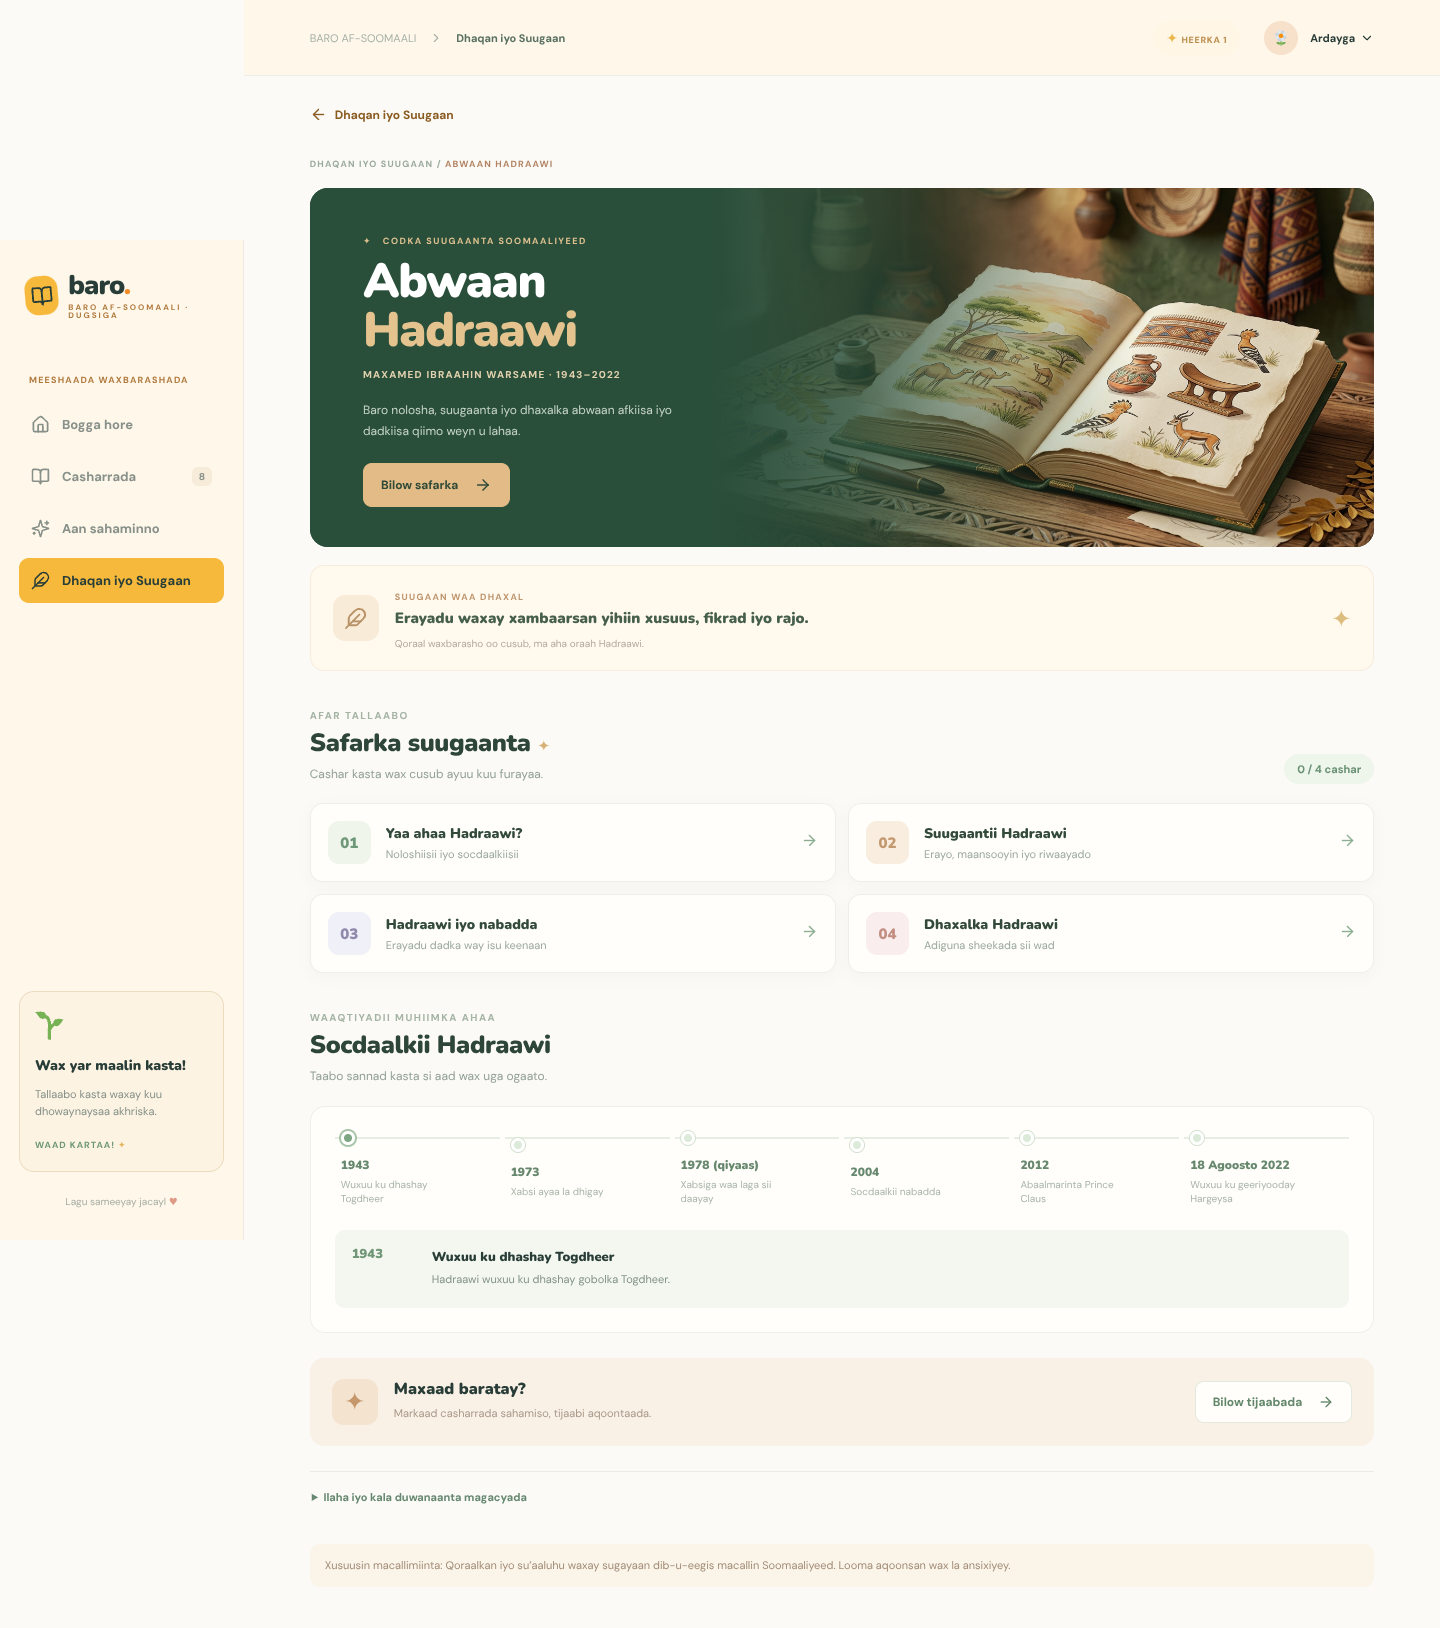
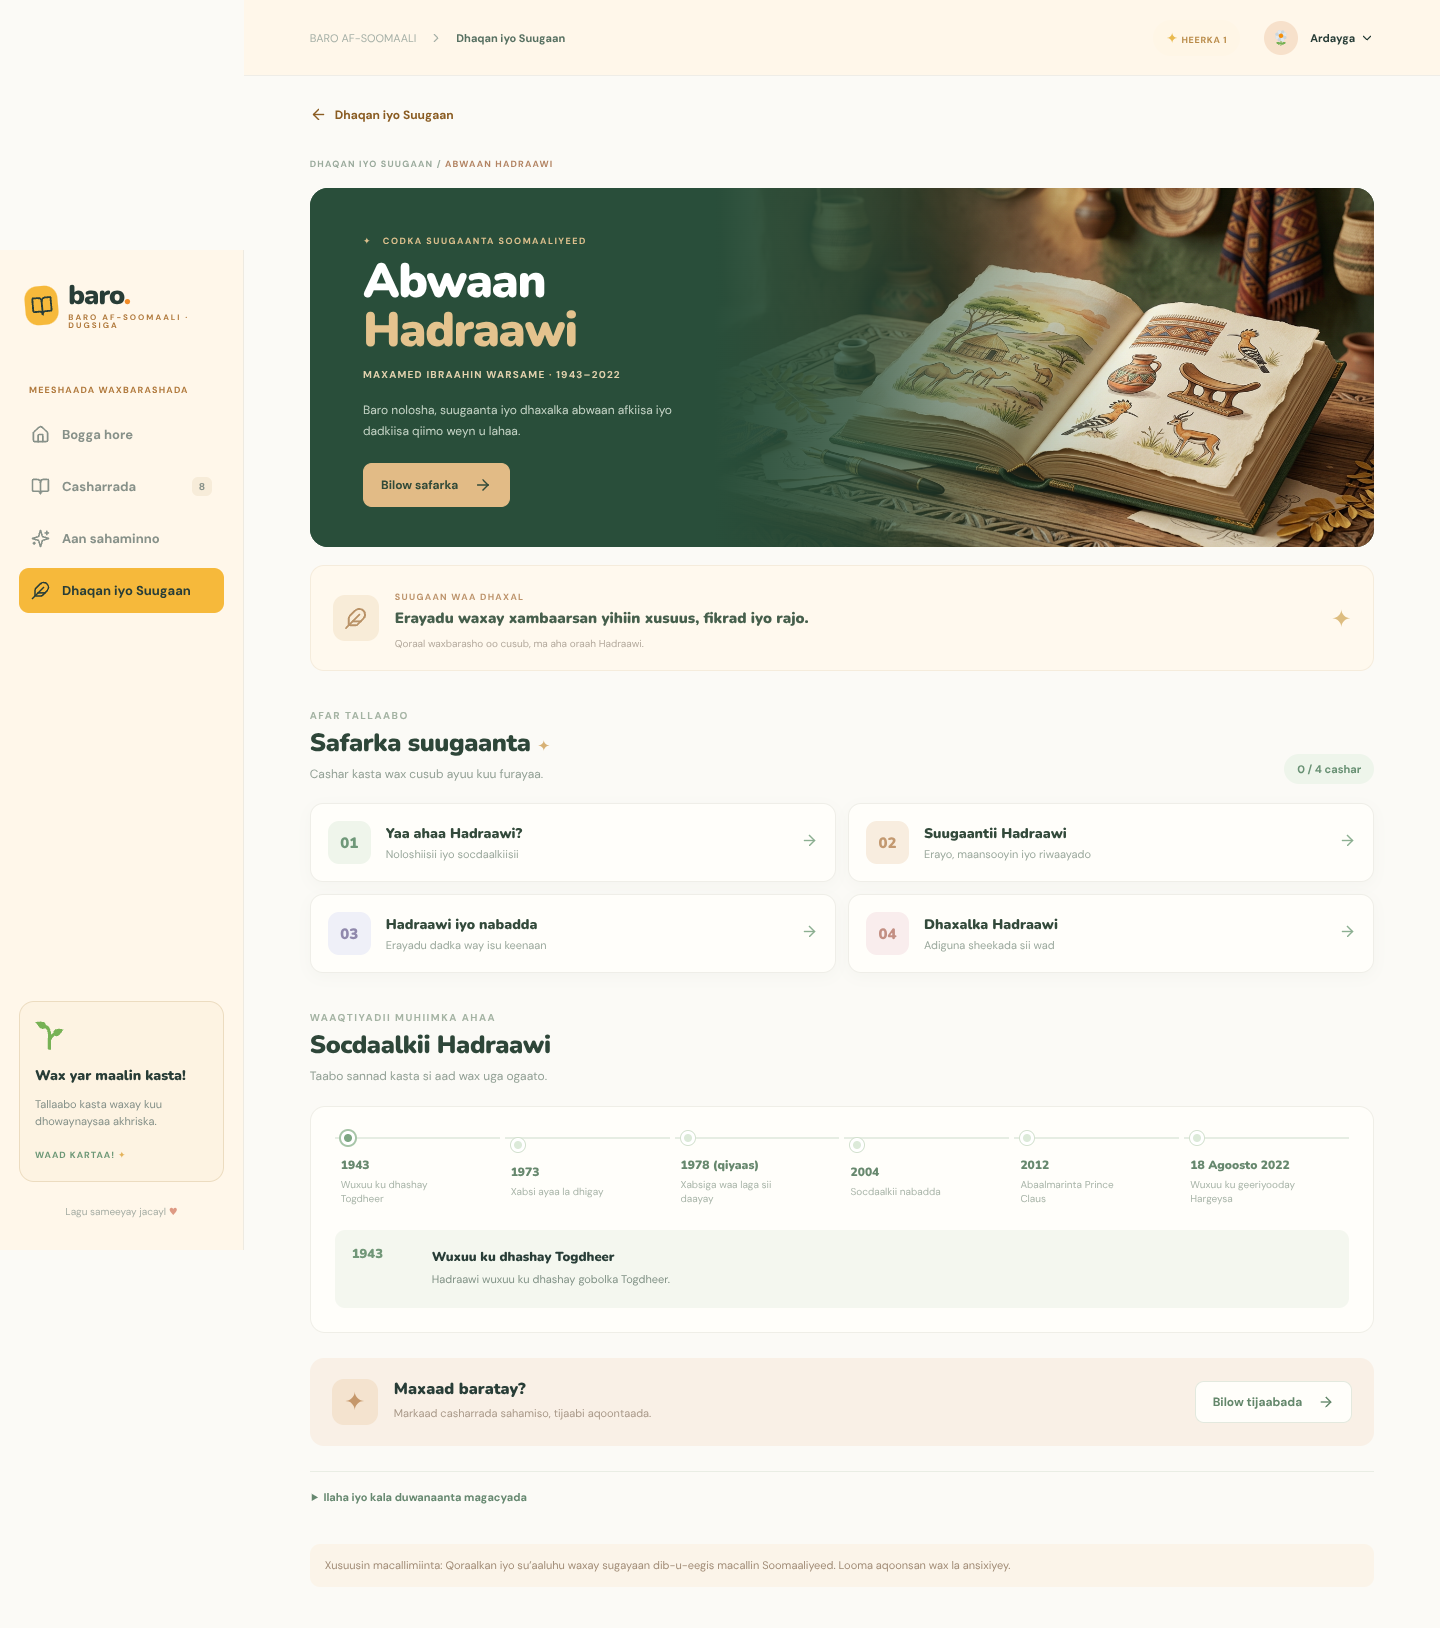
Mobile hero: drop the two intro paragraphs
On phones the Somali lead and its English gloss filled most of the first
screen before the headline's call to action.

- Hidden only inside .ph-hero-copy, and only at <=640px; desktop layout and
  all other .ph-sub uses (sections, stages, info pages) are untouched
- Content stays in the DOM, so desktop readers and search engines still get it
- Hero now runs: badge -> h1 -> CTAs -> cover artwork
- Regenerated home screenshots

Changed region(s): [[0.0, 0.1536, 0.1562, 0.3993], [0.0312, 0.6143, 0.125, 0.7371], [0.0625, 0.7371, 0.125, 0.7678]]

diff --git a/src/parents/parents.css b/src/parents/parents.css
@@ -101,6 +101,11 @@ html { scroll-behavior: smooth; }
   .ph-hero-art { min-height: 350px; }
   .ph-chip { font-size: 12px; padding: 6px 11px; }
 }
+/* the hero intro (Somali lead + English gloss) eats the phone screen; on
+   small screens the h1 and the two CTAs carry the message on their own */
+@media (max-width: 640px) {
+  .ph-hero-copy .ph-lead, .ph-hero-copy .ph-sub { display: none; }
+}
 
 /* ── generic section ─────────────────────────────────────────────── */
 .ph-section { width: 100%; padding: clamp(52px, 8vh, 84px) max(18px, 4vw); }
